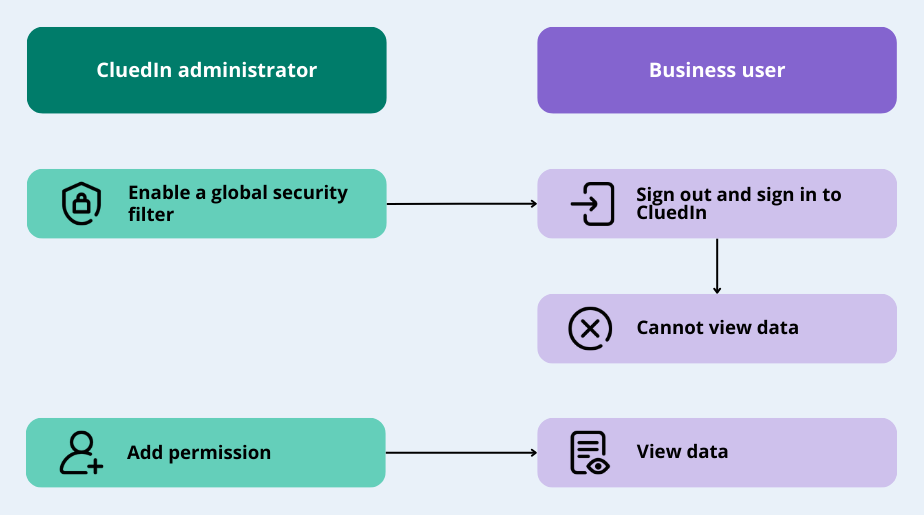
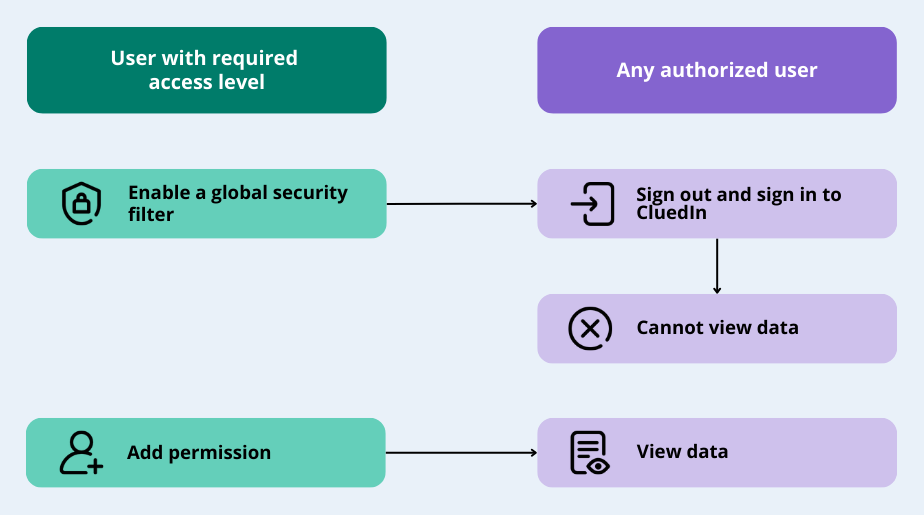
Updated Permissions

Changed region(s): [[0.0909, 0.0932, 0.3636, 0.1864], [0.6667, 0.1243, 0.8788, 0.1553]]

diff --git a/docs/030-administration/050-permissions.md b/docs/030-administration/050-permissions.md
@@ -17,8 +17,14 @@ In this article, you will learn how to restrict access to data using a global se
 
 | Section | Claim | Access level |
 |--|--|--|
-| Admin | Users | at least Consulted |
-| Admin | Roles | at least Consulted |
+| Management | Data Catalog | at least Consulted |
+| Management | Annotation | at least Consulted |
+| Admin | Tenant Management | at least Consulted |
+| Integration | Enrichment | at least Consulted |
+| Integration | Configured Integrations | at least Consulted |
+| Integration | Manual Data Entry Project Management | at least Consulted |
+| Integration | Data Source Groups | at least Consulted |
+| Consume | Export Targets | at least Consulted |
 
 To make sure that the right users have access to the right data, perform the following steps:
 
@@ -86,7 +92,7 @@ With the global security filter enabled, you need to add permissions for users i
 
 1. Go to the **Permissions** tab and select **Add Users**.
 
-1. Select the checkbox next to the users to whom you want to grant access to data. Then, select **Grant access**.
+1. Select the checkbox next to the users you want to grant access to data. Then, select **Grant access**.
 
     ![grant-access-1.png](../../assets/images/administration/permissions/grant-access-1.png)
 

diff --git a/docs/030-administration/030-assign-roles.md b/docs/030-administration/030-assign-roles.md
@@ -95,8 +95,6 @@ If you want to review the users who have been already added to the role and add 
 
 When the user requests access to a specific section or module, you'll receive a new role request notification.
 
-**Note:** You'll receive a role request notification from the user only if you added that user to CluedIn. If someone else added the user, then that person will receive the role request notification.
-
 ![role-request-2.png](../../assets/images/administration/roles/role-request-2.png)
 
 The following diagram shows the flow of processing role requests.
